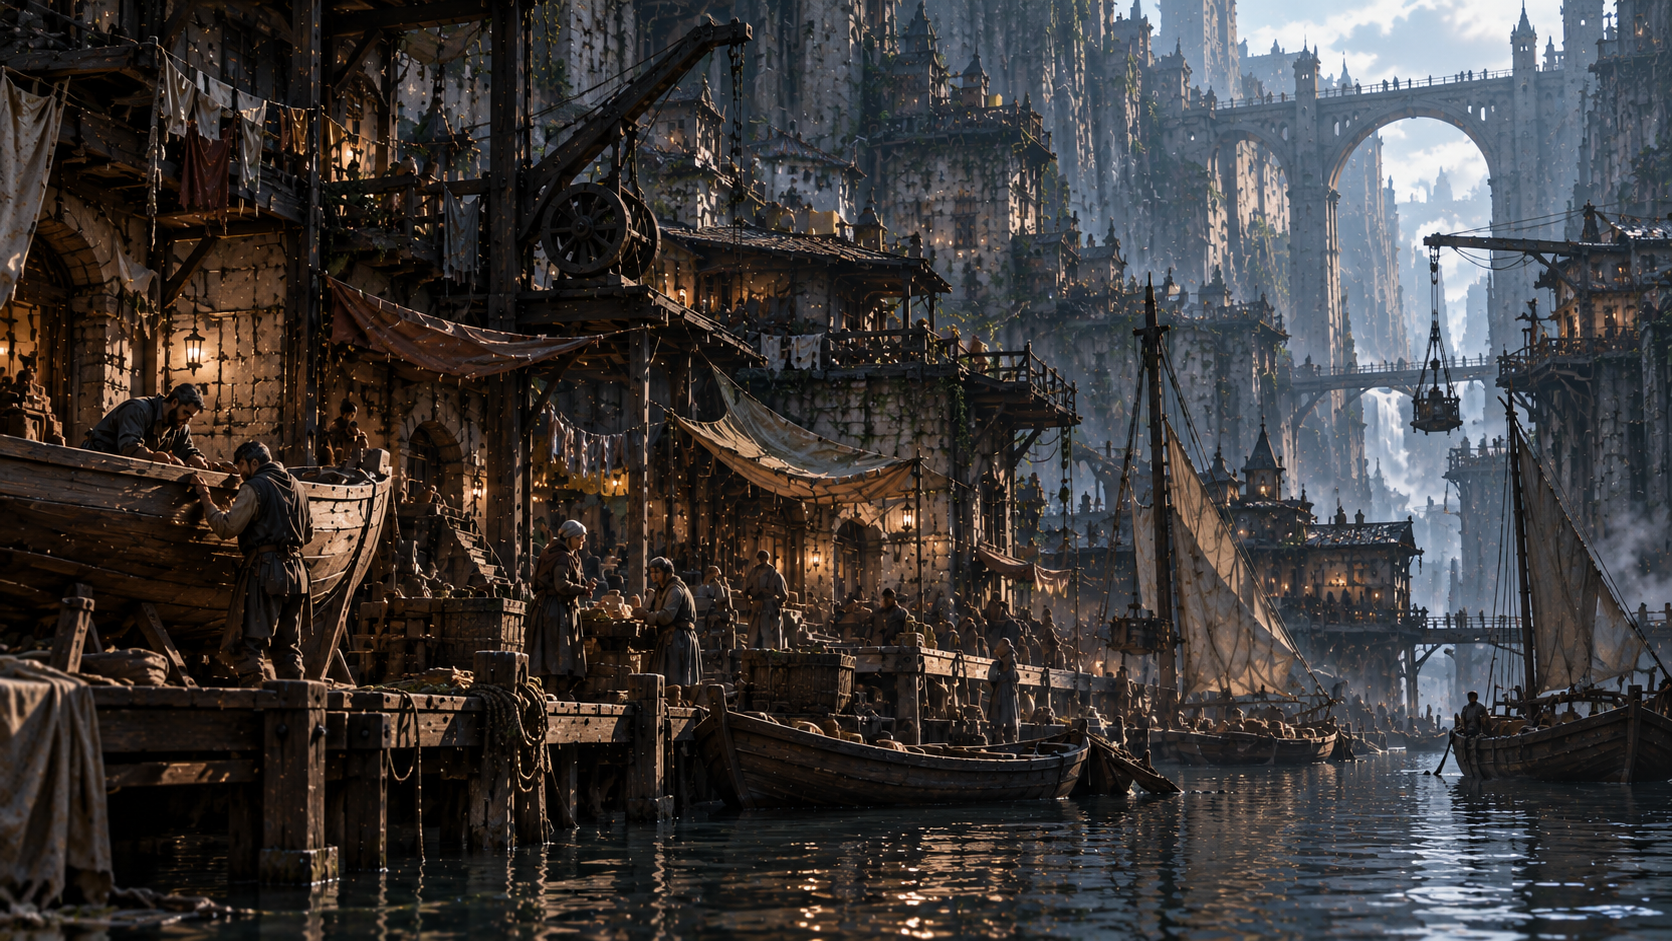
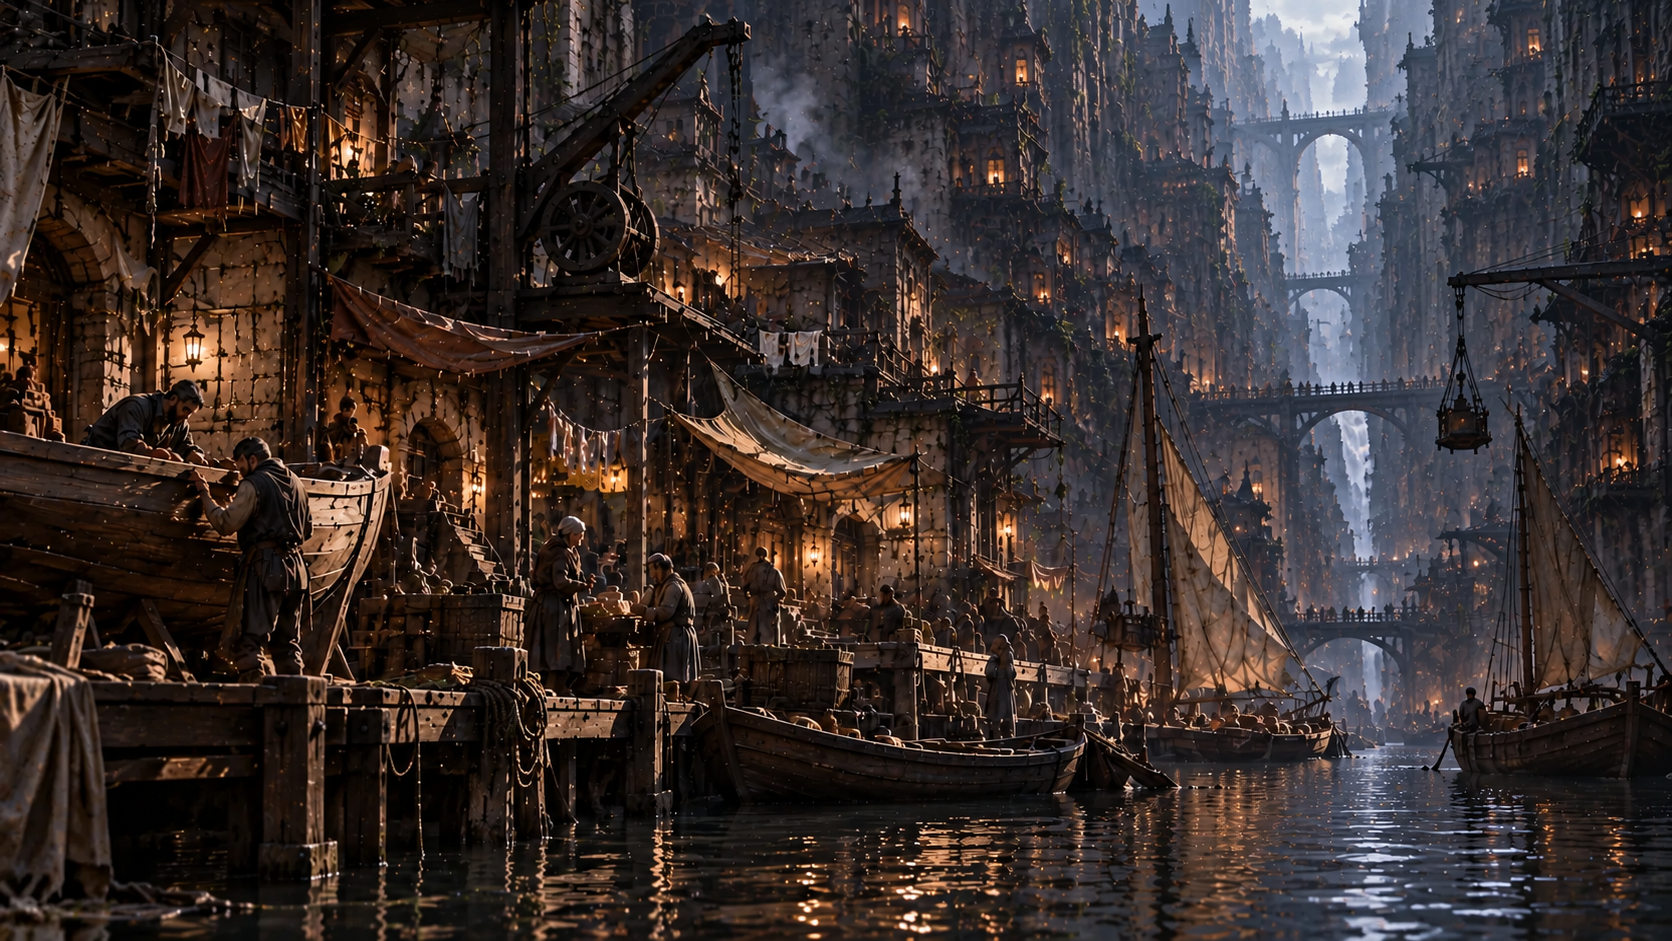
Replace Deepwater World artwork with approved canyon harbor image

diff --git a/ARTWORK.md b/ARTWORK.md
@@ -17,7 +17,7 @@ Still potentially useful: a small approved Arch coin detail, a quiet Upper City 
 
 Only the nine newly selected world/character/scenes, other separately selected character artwork, and the three Chapter One illustrations are intended for public display. Earlier homepage artwork is archived; historical approval does not override the current visual selection.
 
-Current Deepwater homepage image: `assets/images/districts/deepwater-working-waterfront.png` (original title: `Mistbound Cliffside Harbour.png`).
+Current approved Deepwater World/Lore image: `assets/images/districts/deepwater-working-waterfront.png` (uploaded title: `Deepwater Canyon Harbor.png`, replacing `Mistbound Cliffside Harbour.png` on 24 October 2026). The old webp derivatives were removed because they depict the retired artwork; no unapproved old image should be delivered. The public image does not establish incidental architecture as written canon.
 
 World is the illustrated atlas; Lore is text-forward, with selective use of relevant illustrations. No illustration automatically establishes incidental props or specific historical events as written canon.
 
